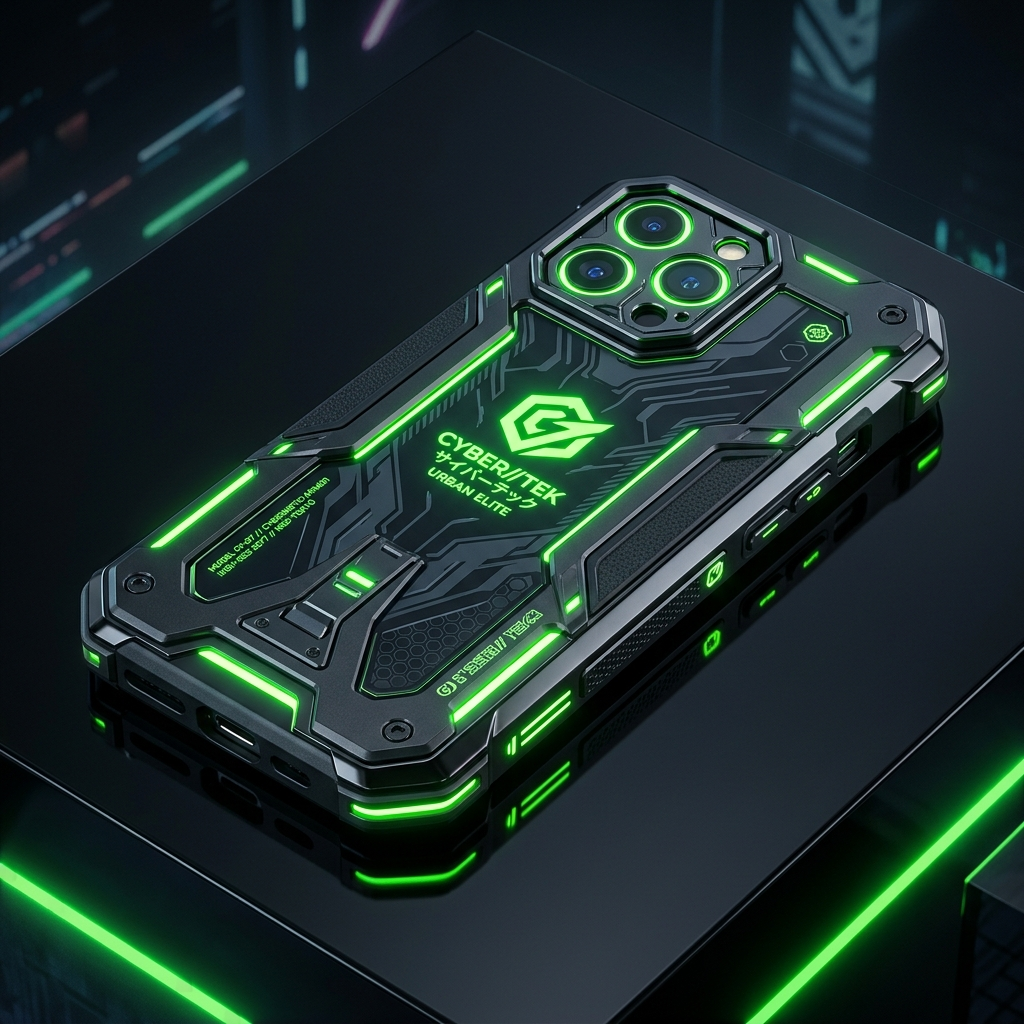
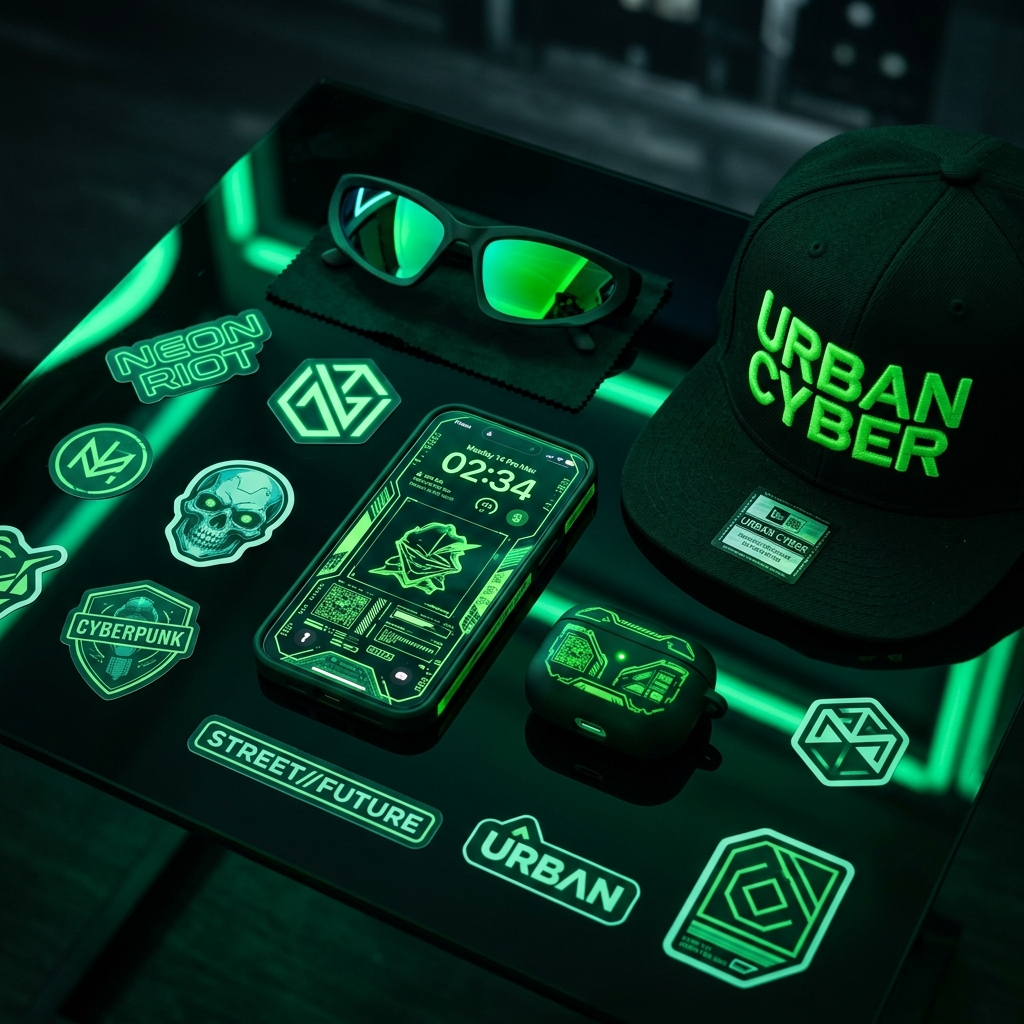
Update kids neon lighting photo, add flat-lay accessories category image, and add individual mock products for AirPods cover, snapback cap, techwear sunglasses, and stickers

diff --git a/src/app/account/AccountDashboard.tsx b/src/app/account/AccountDashboard.tsx
@@ -20,7 +20,11 @@ const productsList = [
   { id: "p3", name: "NEBULA OVERSIZED TEE", price: 65, oldPrice: 80, image: "/prod-tee.png", tag: "BEST SELLER", category: "Womens" },
   { id: "p4", name: "STRUCTURAL JACKET", price: 210, oldPrice: 210, image: "/prod-jacket.png", tag: "LIMITED", category: "Mens" },
   { id: "p5", name: "SYNTHETIC BEANIE", price: 35, oldPrice: 45, image: "/prod-hoodie.png", tag: "", category: "Accessories" },
-  { id: "p13", name: "CYBERPUNK PHONE CASE", price: 40, oldPrice: 50, image: "/prod-phone-case.png", tag: "NEW", category: "Accessories" }
+  { id: "p13", name: "CYBERPUNK IPHONE CASE", price: 40, oldPrice: 50, image: "/prod-phone-case.png", tag: "NEW", category: "Accessories" },
+  { id: "p14", name: "CYBERPUNK AIRPODS COVER", price: 30, oldPrice: 35, image: "/prod-airpods-cover.png", tag: "NEW", category: "Accessories" },
+  { id: "p15", name: "STREETWEAR SNAPBACK CAP", price: 45, oldPrice: 55, image: "/prod-cap.png", tag: "POPULAR", category: "Accessories" },
+  { id: "p16", name: "TECHWEAR SUNGLASSES", price: 60, oldPrice: 75, image: "/prod-sunglasses.png", tag: "LIMITED", category: "Accessories" },
+  { id: "p17", name: "AESTHETIC STICKER PACK", price: 15, oldPrice: 20, image: "/prod-stickers.png", tag: "BUDGET", category: "Accessories" }
 ];
 
 // Helper to render gender specific icons on the profile dashboard

diff --git a/src/app/product/[id]/page.tsx b/src/app/product/[id]/page.tsx
@@ -20,7 +20,11 @@ const mockProducts = [
   { id: "p10", name: "NEO-CARGO SHORTS", price: 60, image: "/prod-cargo.png", tag: "", category: "Kids", description: "Durable kid-friendly active construction. Easy elastic waist, side webbing straps." },
   { id: "p11", name: "MINIMALIST RUG", price: 250, image: "/cat-home.png", tag: "BEST SELLER", category: "Home & Living", description: "High-density weave rug featuring the blueprint grid graphics of our master design plan." },
   { id: "p12", name: "STEEL DESK LAMP", price: 120, image: "/prod-jacket.png", tag: "LIMITED", category: "Home & Living", description: "Industrial articulating frame, custom neon accents, designed to cast the optimal aesthetic work glow." },
-  { id: "p13", name: "CYBERPUNK PHONE CASE", price: 40, image: "/prod-phone-case.png", tag: "NEW", category: "Accessories", description: "Futuristic phone case constructed with military-grade drop protection, glossy outer layer, and high-contrast streetwear graphics." },
+  { id: "p13", name: "CYBERPUNK IPHONE CASE", price: 40, image: "/prod-phone-case.png", tag: "NEW", category: "Accessories", description: "Futuristic iPhone case constructed with military-grade drop protection, glossy outer layer, and high-contrast streetwear graphics." },
+  { id: "p14", name: "CYBERPUNK AIRPODS COVER", price: 30, image: "/prod-airpods-cover.png", tag: "NEW", category: "Accessories", description: "Premium AirPods case cover constructed with shockproof silicone and glowing brand accents." },
+  { id: "p15", name: "STREETWEAR SNAPBACK CAP", price: 45, image: "/prod-cap.png", tag: "POPULAR", category: "Accessories", description: "Futuristic streetwear snapback cap with a structured paneled design and neon green embroidered logo details." },
+  { id: "p16", name: "TECHWEAR SUNGLASSES", price: 60, image: "/prod-sunglasses.png", tag: "LIMITED", category: "Accessories", description: "Premium techwear sunglasses with high-definition neon green lenses and sturdy industrial frames." },
+  { id: "p17", name: "AESTHETIC STICKER PACK", price: 15, image: "/prod-stickers.png", tag: "BUDGET", category: "Accessories", description: "An exclusive pack of die-cut vinyl stickers featuring neon cyberpunk branding and typography elements." },
   { id: "a1", name: "YUBBY DUBBY x ADIDAS ULTRA-BOOST CYBER", price: 220, image: "/prod-cargo.png", tag: "COLLAB", category: "Accessories", description: "Exclusive collaboration sneakers featuring the Primeknit mesh design and energy-returning Boost midsole." },
   { id: "a2", name: "ADIDAS ZERO-G HOODIE GREEN", price: 160, image: "/prod-hoodie.png", tag: "NEW", category: "Mens", description: "Dual-branded heavyweight hoodie in the signature accent green hue. Engineered with performance sports details." },
   { id: "a3", name: "ADIDAS VOID TRACK PANTS", price: 140, image: "/prod-cargo.png", tag: "", category: "Mens", description: "Slim-fit performance track pants with high-contrast neon details and standard pocket configuration." },

diff --git a/src/app/shop/page.tsx b/src/app/shop/page.tsx
@@ -26,7 +26,11 @@ const mockProductsByCategory = {
   accessories: [
     { id: "p5", name: "SYNTHETIC BEANIE", price: 35, image: "/prod-hoodie.png", tag: "" },
     { id: "p7", name: "HEAVY METAL CHAIN", price: 55, image: "/prod-tee.png", tag: "" },
-    { id: "p13", name: "CYBERPUNK PHONE CASE", price: 40, image: "/prod-phone-case.png", tag: "NEW" }
+    { id: "p13", name: "CYBERPUNK IPHONE CASE", price: 40, image: "/prod-phone-case.png", tag: "NEW" },
+    { id: "p14", name: "CYBERPUNK AIRPODS COVER", price: 30, image: "/prod-airpods-cover.png", tag: "NEW" },
+    { id: "p15", name: "STREETWEAR SNAPBACK CAP", price: 45, image: "/prod-cap.png", tag: "POPULAR" },
+    { id: "p16", name: "TECHWEAR SUNGLASSES", price: 60, image: "/prod-sunglasses.png", tag: "LIMITED" },
+    { id: "p17", name: "AESTHETIC STICKER PACK", price: 15, image: "/prod-stickers.png", tag: "BUDGET" }
   ]
 };
 

diff --git a/src/components/home/BestSellers.tsx b/src/components/home/BestSellers.tsx
@@ -77,7 +77,11 @@ const mockProducts = [
     { id: "p10", name: "NEO-CARGO SHORTS", price: 60, image: "/prod-cargo.png", tag: "", category: "Kids" },
     { id: "p11", name: "MINIMALIST RUG", price: 250, image: "/cat-home.png", tag: "BEST SELLER", category: "Home & Living" },
     { id: "p12", name: "STEEL DESK LAMP", price: 120, image: "/prod-jacket.png", tag: "LIMITED", category: "Home & Living" },
-    { id: "p13", name: "CYBERPUNK PHONE CASE", price: 40, image: "/prod-phone-case.png", tag: "NEW", category: "Accessories" },
+    { id: "p13", name: "CYBERPUNK IPHONE CASE", price: 40, image: "/prod-phone-case.png", tag: "NEW", category: "Accessories" },
+    { id: "p14", name: "CYBERPUNK AIRPODS COVER", price: 30, image: "/prod-airpods-cover.png", tag: "NEW", category: "Accessories" },
+    { id: "p15", name: "STREETWEAR SNAPBACK CAP", price: 45, image: "/prod-cap.png", tag: "POPULAR", category: "Accessories" },
+    { id: "p16", name: "TECHWEAR SUNGLASSES", price: 60, image: "/prod-sunglasses.png", tag: "LIMITED", category: "Accessories" },
+    { id: "p17", name: "AESTHETIC STICKER PACK", price: 15, image: "/prod-stickers.png", tag: "BUDGET", category: "Accessories" },
 ];
 
 const categories = ["All", "Mens", "Womens", "Kids", "Home & Living", "Accessories"];